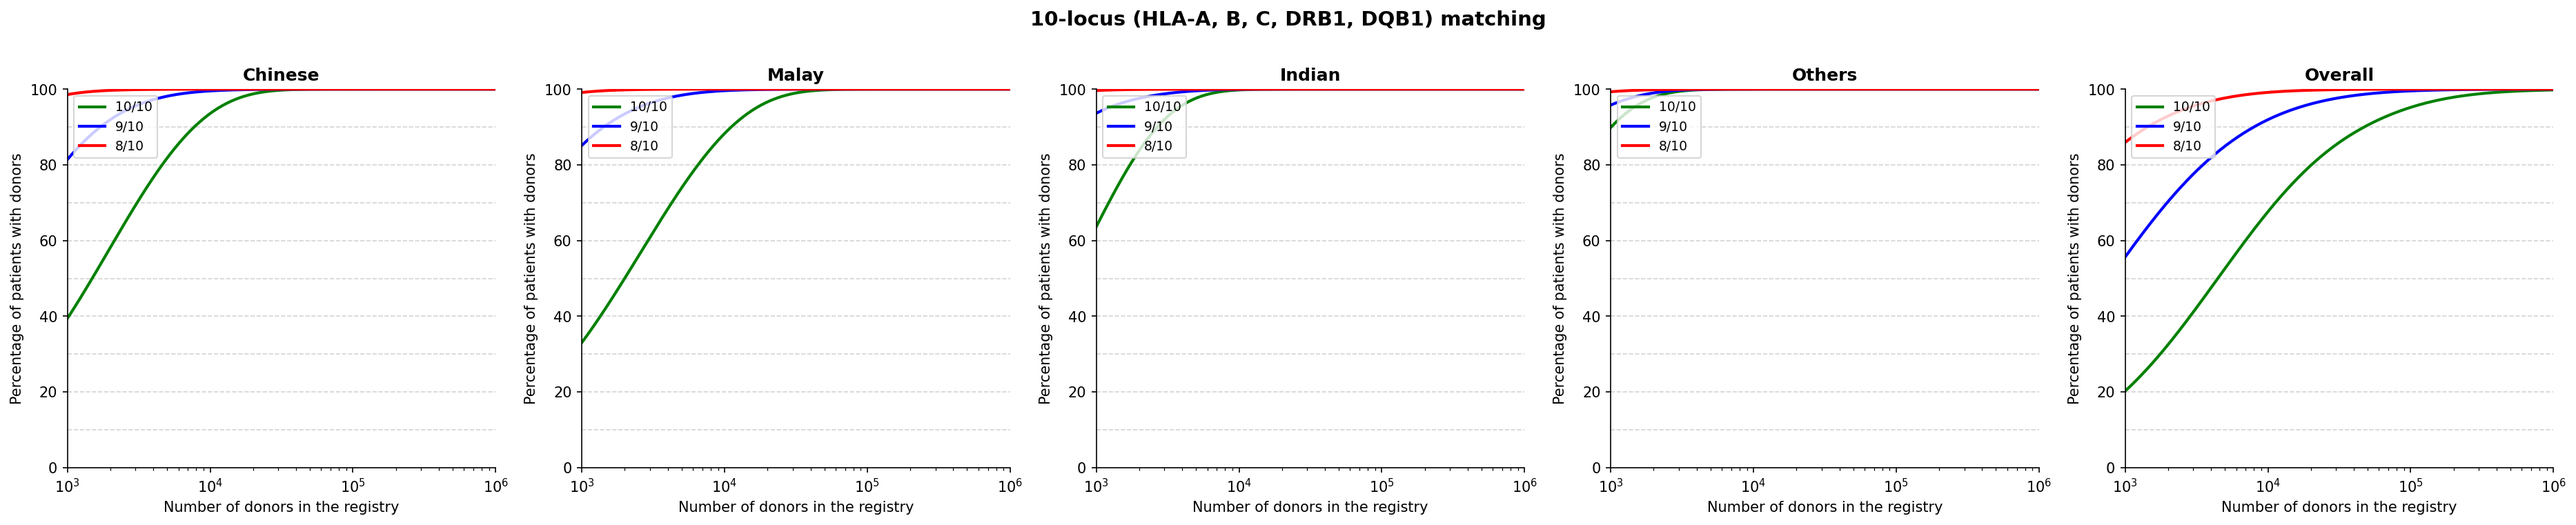
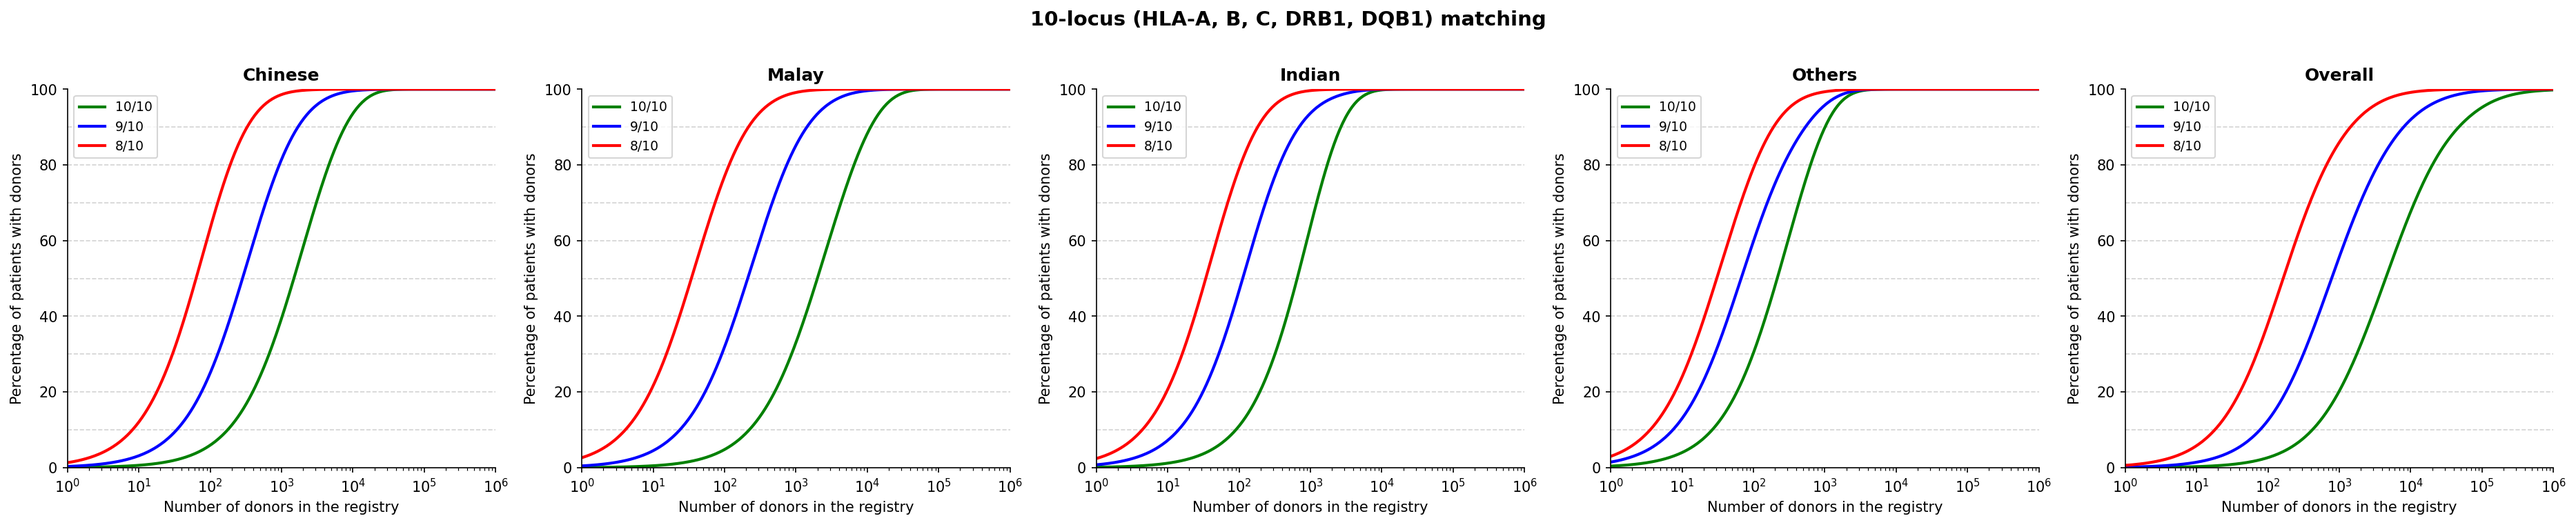
fix: x-axis starts at 1 (log scale) so curve rises from left edge

diff --git a/analysis/06_partial_match_plots.py b/analysis/06_partial_match_plots.py
@@ -26,7 +26,7 @@ LOCI_4 = ['HLA-A', 'HLA-B', 'HLA-C', 'DRB1']             # 8-allele framework
 
 ETHNICITIES = ['Chinese', 'Malay', 'Indian', 'Others']
 SG_WEIGHTS = {'Chinese': 0.77, 'Malay': 0.08, 'Indian': 0.09, 'Others': 0.06}
-N_VALUES = np.logspace(3, 6, 300)
+N_VALUES = np.logspace(0, 6, 300)
 
 
 # ---------------------------------------------------------------------------
@@ -182,7 +182,7 @@ def make_figure(eth_curves_dict, match_levels, framework_name, out_path):
             ax.plot(N_VALUES, cov * 100, color=color, linewidth=2, label=label)
 
         ax.set_xscale('log')
-        ax.set_xlim(1e3, 1e6)
+        ax.set_xlim(1, 1e6)
         ax.set_ylim(0, 100)
         ax.set_xlabel('Number of donors in the registry', fontsize=10)
         ax.set_ylabel('Percentage of patients with donors', fontsize=10)
